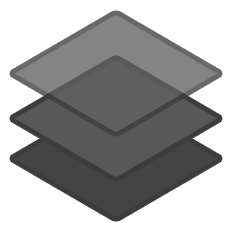
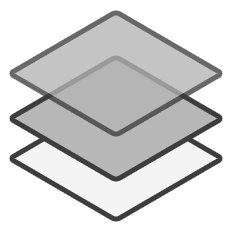
changed style of buttons

diff --git a/index.html b/index.html
@@ -271,10 +271,10 @@
                 <a href="#menu" id='layers-link' class="transform menu-link leaflet-bar-part leaflet-bar-part-single vibrate"><img class='layers-img' src='css/images/layers-hres.png'></a>
             </div>
             <div class ='leaflet-bar leaflet-control'>
-                <a href="#menu" id='sectors-link' class="transform menu-link leaflet-bar-part leaflet-bar-part-single vibrate"><i style='margin-top: 3px; color:#444' class="fa fa-globe fa-3x" aria-hidden="true"></i></a>
+                <a href="#menu" id='sectors-link' class="transform menu-link leaflet-bar-part leaflet-bar-part-single vibrate"><i style='margin-top: 3px; color:#f4f4f4' class="fa fa-globe fa-3x" aria-hidden="true"></i></a>
             </div>            
             <div class ='leaflet-bar leaflet-control'>
-                <a href="#menu" id='options-link' class="transform menu-link leaflet-bar-part leaflet-bar-part-single vibrate"><span><i style='margin-top: 5px; color:#444' class="fa fa-cog fa-3x" aria-hidden="true"></i></span></a>
+                <a href="#menu" id='options-link' class="transform menu-link leaflet-bar-part leaflet-bar-part-single vibrate"><span><i style='margin-top: 5px; color:#f4f4f4' class="fa fa-cog fa-3x" aria-hidden="true"></i></span></a>
             </div>
             <div class ='leaflet-bar leaflet-control'>
                 <a id='fullscreen-link' class="transform leaflet-bar-part leaflet-bar-part-single vibrate"><span><i class="fa fa-arrows-alt fa-2x"></i></span></a>

diff --git a/css/leaflet.css b/css/leaflet.css
@@ -267,7 +267,7 @@
 	}
 .leaflet-bar a,
 .leaflet-bar a:hover {
-	background-color: #fff;
+	background-color: rgba(25,25,25,0.75);
 	border-bottom: 1px solid #ccc;
 	width: 45px;
 	height: 45px;
@@ -275,7 +275,6 @@
 	display: block;
 	text-align: center;
 	text-decoration: none;
-	color: black;
 	box-shadow: 0 1px 5px rgba(0,0,0,0.65);
 	}
 .leaflet-bar a,
@@ -285,7 +284,7 @@
 	display: block;
 	}
 .leaflet-bar a:hover {
-	background-color: #f4f4f4;
+	background-color: rgba(25,25,25,0.85);
 	}
 .leaflet-bar a:first-child {
 	border-top-left-radius: 4px;

diff --git a/css/style.css b/css/style.css
@@ -143,7 +143,7 @@ span{
 }
 .fa-arrows-alt{
     margin-top: 10px;
-    color: #444;
+    color: #f4f4f4;
 }
 .sector-select h4{
     text-align: center;
@@ -189,8 +189,7 @@ span{
     width: 45px;
 }
 .layers-img:hover{
-  background:#f4f4f4;;
-}
+  }
 .close-div{
     box-shadow: inset 0px 0px 5px rgba(25,25,25,0.85);
     padding-right: 13px;
@@ -449,7 +448,7 @@ html, body, #map {
   font-size: 12px;
   font-weight: bold;
   display: inline-block;
-  padding-right: 10px;
+  padding-right: 12px;
   float: right;
   margin: 0px;
   color: #f4f4f4;

diff --git a/css/L.Control.Locate.css b/css/L.Control.Locate.css
@@ -3,7 +3,6 @@
 	position: fixed;
 	top:105px;
 	right: 20px;
-	background: white;
 	width:35px;
 	height:35px
 
@@ -12,7 +11,7 @@
 
 .leaflet-control-locate a {
   font-size: 1.9em;
-  color: #444;
+  color:#f4f4f4;
   cursor: pointer;
 }
 .leaflet-control-locate.active a {
